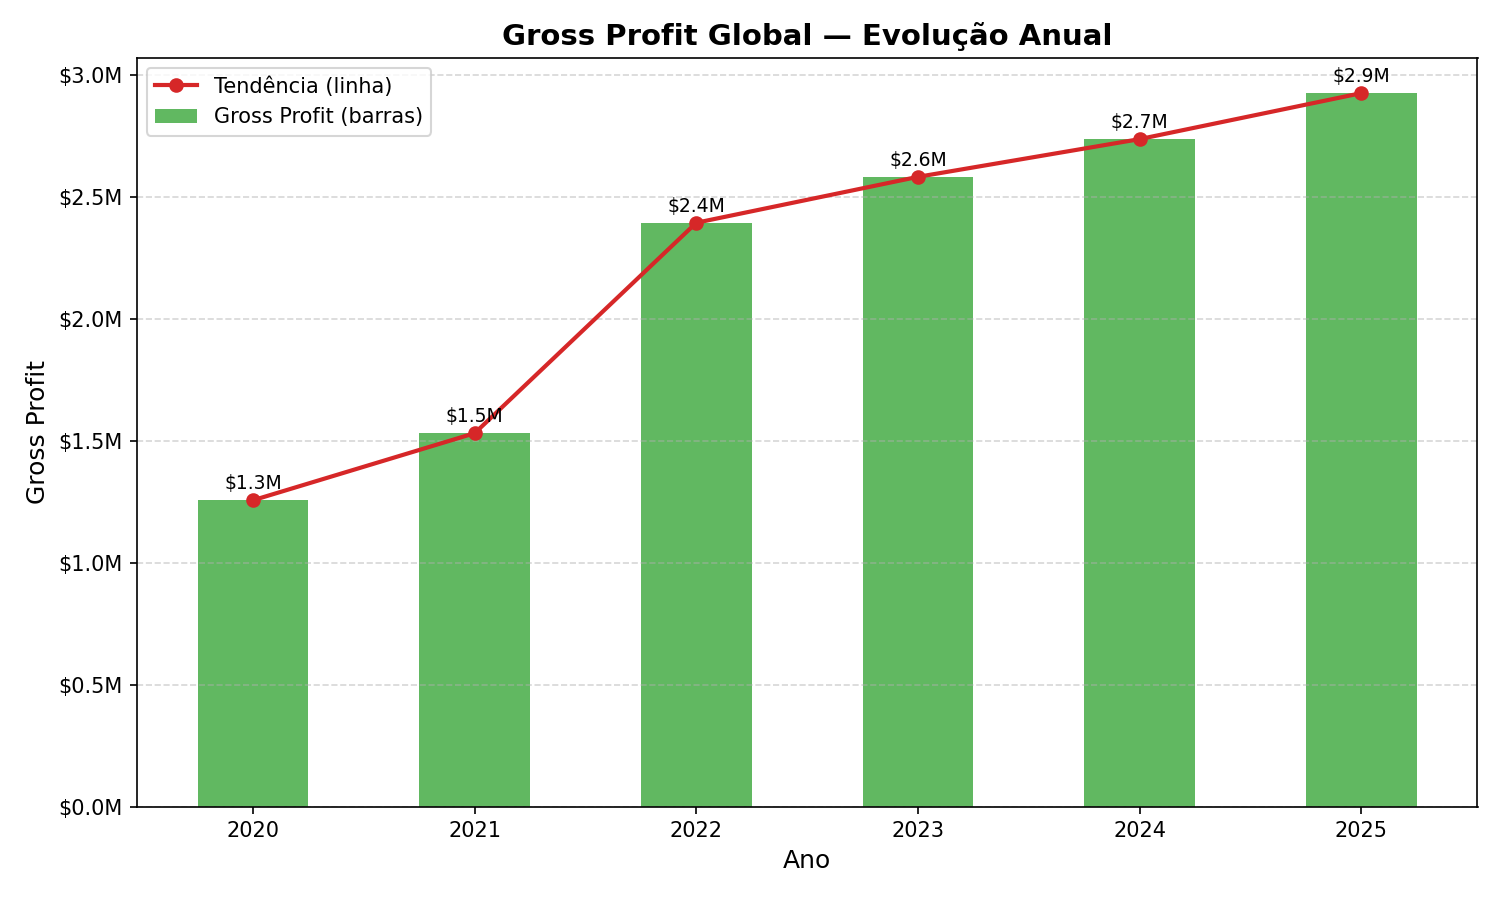
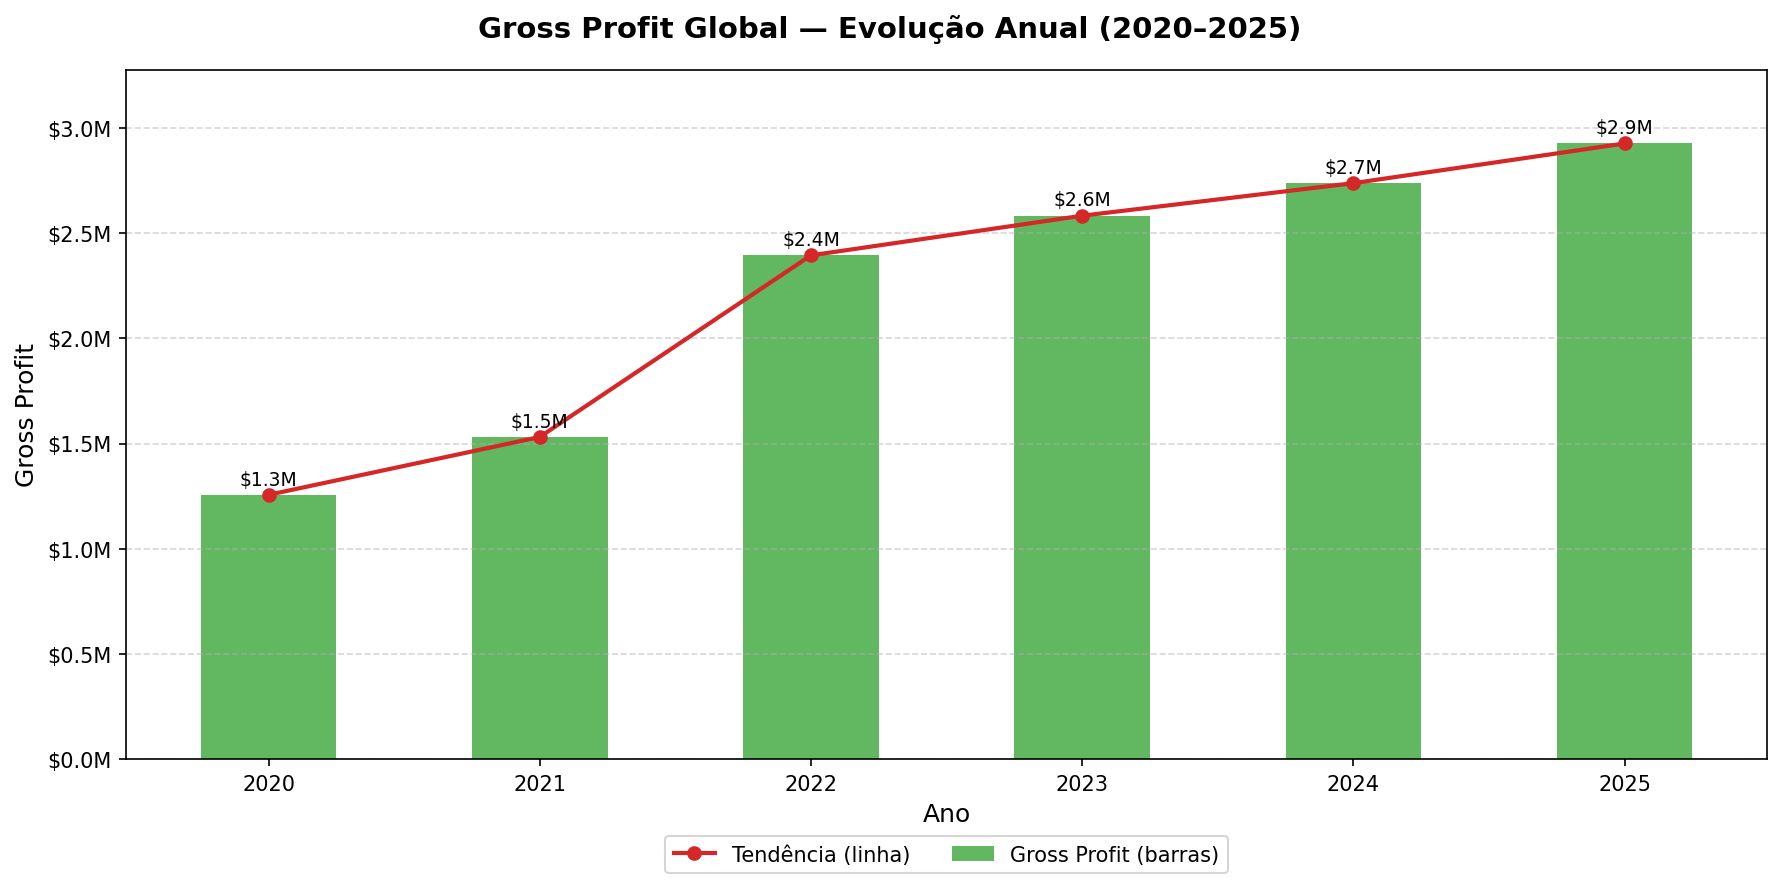
atualizei

diff --git a/Financeiro/paises/total_profit_paises.py b/Financeiro/paises/total_profit_paises.py
@@ -1,5 +1,5 @@
 """
-Gross Profit por País — 3 regiões × 3 ficheiros cada:
+Total Profit por País — 3 regiões × 3 ficheiros cada:
   _abs.png   → Stacked Area volume absoluto
   _pct.png   → Stacked Area 100% (quota no continente)
   _stats.png → Tabela de estatísticas acumuladas
@@ -18,15 +18,15 @@ OUTPUT_DIR = BASE_DIR
 
 # ── Load & prepare ─────────────────────────────────────────────────────────────
 if not os.path.exists(DATA_PATH):
-    # Fallback para o caminho relativo antigo caso o absoluto falhe num ambiente diferente
+    # Fallback para o caminho relativo antigo caso o absoluto falhe
     DATA_PATH = os.path.join(BASE_DIR, "..", "..", "data", "sales_data_clean.csv")
 
 df = pd.read_csv(DATA_PATH)
-# Gross Profit = Sales_Price - Production_Cost
-df["Gross_Profit"] = df["Sales_Price"] - df["Production_Cost"]
+# Total Profit = Sales_Price - Production_Cost - Shipping_Cost
+df["Total_Profit"] = df["Sales_Price"] - df["Production_Cost"] - df["Shipping_Cost"]
 
 country_data = (
-    df.groupby(["Year", "Region", "Country"])["Gross_Profit"]
+    df.groupby(["Year", "Region", "Country"])["Total_Profit"]
     .sum()
     .reset_index()
     .sort_values(["Region", "Country", "Year"])
@@ -68,7 +68,7 @@ def plot_region(region_key: str, config: dict):
     years = sorted(data["Year"].unique())
 
     pivot = (
-        data.pivot_table(index="Year", columns="Country", values="Gross_Profit", aggfunc="sum")
+        data.pivot_table(index="Year", columns="Country", values="Total_Profit", aggfunc="sum")
         .reindex(columns=countries)
         .fillna(0)
     )
@@ -112,7 +112,7 @@ def plot_region(region_key: str, config: dict):
     # ────────────────────────────────────────────────────────────────────────────
     fig, ax = plt.subplots(figsize=(14, 7))
     fig.suptitle(
-        f"Gross Profit por País — {label} (2020–2025)\nVolume Absoluto — Parcela do Continente",
+        f"Total Profit por País — {label} (2020–2025)\nVolume Absoluto — Parcela do Continente",
         fontsize=13, fontweight="bold",
     )
 
@@ -124,7 +124,7 @@ def plot_region(region_key: str, config: dict):
     ax.set_xticks(years)
     ax.tick_params(axis="x", labelsize=11)
     ax.set_xlabel("Ano", fontsize=11)
-    ax.set_ylabel("Gross Profit", fontsize=11)
+    ax.set_ylabel("Total Profit", fontsize=11)
     ax.legend(loc="lower center", bbox_to_anchor=(0.5, -0.22),
               ncol=min(n_cols, 4), fontsize=10, title="País", framealpha=0.85)
     ax.grid(axis="y", linestyle="--", alpha=0.35)
@@ -158,7 +158,7 @@ def plot_region(region_key: str, config: dict):
             )
 
     plt.tight_layout()
-    p = os.path.join(OUTPUT_DIR, f"gross_profit_paises_{slug}_abs.png")
+    p = os.path.join(OUTPUT_DIR, f"total_profit_paises_{slug}_abs.png")
     plt.savefig(p, dpi=150, bbox_inches="tight")
     print(f"Guardado: {p}")
     plt.close()
@@ -168,7 +168,7 @@ def plot_region(region_key: str, config: dict):
     # ────────────────────────────────────────────────────────────────────────────
     fig, ax = plt.subplots(figsize=(14, 7))
     fig.suptitle(
-        f"Gross Profit por País — {label} (2020–2025)\nQuota Relativa no Continente — 100% Stacked",
+        f"Total Profit por País — {label} (2020–2025)\nQuota Relativa no Continente — 100% Stacked",
         fontsize=13, fontweight="bold",
     )
 
@@ -201,7 +201,7 @@ def plot_region(region_key: str, config: dict):
             )
 
     plt.tight_layout()
-    p = os.path.join(OUTPUT_DIR, f"gross_profit_paises_{slug}_pct.png")
+    p = os.path.join(OUTPUT_DIR, f"total_profit_paises_{slug}_pct.png")
     plt.savefig(p, dpi=150, bbox_inches="tight")
     print(f"Guardado: {p}")
     plt.close()
@@ -210,7 +210,7 @@ def plot_region(region_key: str, config: dict):
     # PNG 3 — Tabela de estatísticas
     # ────────────────────────────────────────────────────────────────────────────
     row_labels = [
-        "Gross Profit Total Acum.",
+        "Total Profit Acumulado",
         "Média Anual",
         "CAGR",
         "Cresc. Médio YoY",
@@ -231,7 +231,7 @@ def plot_region(region_key: str, config: dict):
     fig, ax = plt.subplots(figsize=(max(8, 3.5 * n_cols + 3), fig_h))
     ax.axis("off")
     fig.suptitle(
-        f"Estatísticas Acumuladas — {label} (Gross Profit)",
+        f"Estatísticas Acumuladas — {label} (Total Profit)",
         fontsize=13, fontweight="bold", y=0.97,
     )
 
@@ -270,7 +270,7 @@ def plot_region(region_key: str, config: dict):
             cell.set_height(0.12)
 
     plt.tight_layout()
-    p = os.path.join(OUTPUT_DIR, f"gross_profit_paises_{slug}_stats.png")
+    p = os.path.join(OUTPUT_DIR, f"total_profit_paises_{slug}_stats.png")
     plt.savefig(p, dpi=150, bbox_inches="tight")
     print(f"Guardado: {p}")
     plt.close()

diff --git a/Financeiro/global/total_profit_global.py b/Financeiro/global/total_profit_global.py
@@ -1,8 +1,8 @@
 """
-Gross Profit Global — evolução anual do gross profit total (escala global).
+Total Profit Global — evolução anual do Total Profit total (escala global).
 Gera 2 ficheiros:
-  gross_profit_global.png       → barras + linha de tendência
-  gross_profit_global_stats.png → tabela de estatísticas acumuladas
+  total_profit_global.png       → barras + linha de tendência
+  total_profit_global_stats.png → tabela de estatísticas acumuladas
 """
 
 import pandas as pd
@@ -17,18 +17,18 @@ OUTPUT_DIR = BASE_DIR
 
 # ── Load & prepare ─────────────────────────────────────────────────────────────
 df = pd.read_csv(DATA_PATH)
-# Gross Profit = Sales_Price - Production_Cost
-df["Gross_Profit"] = df["Sales_Price"] - df["Production_Cost"]
+# Total Profit = Sales_Price - Production_Cost - Shipping_Cost
+df["Total_Profit"] = df["Sales_Price"] - df["Production_Cost"] - df["Shipping_Cost"]
 
-global_gp = (
-    df.groupby("Year")["Gross_Profit"]
+global_tp = (
+    df.groupby("Year")["Total_Profit"]
     .sum()
     .reset_index()
     .sort_values("Year")
 )
 
-val_col = global_gp["Gross_Profit"]
-years = global_gp["Year"].tolist()
+val_col = global_tp["Total_Profit"]
+years = global_tp["Year"].tolist()
 n_years = len(years)
 
 # ── Estatísticas ───────────────────────────────────────────────────────────────
@@ -41,7 +41,7 @@ yoy_worst_i = yoy.idxmin()
 
 # Mudança de estrutura: [Indicador, Valor] em vez de usar rowLabels
 stats_data = [
-    ["Gross Profit Total Acum.",  f"${val_col.sum()/1e6:.1f}M"],
+    ["Total Profit Acumulado",    f"${val_col.sum()/1e6:.1f}M"],
     ["Média Anual",               f"${val_col.mean()/1e6:.2f}M"],
     ["CAGR",                      f"{cagr:.1f}%"],
     ["Cresc. Médio YoY",          f"{yoy_mean:.1f}%"],
@@ -55,28 +55,28 @@ stats_data = [
 # PNG 1 — Barras + Linha
 # ────────────────────────────────────────────────────────────────────────────────
 fig, ax = plt.subplots(figsize=(12, 6))
-fig.suptitle("Gross Profit Global — Evolução Anual (2020–2025)",
+fig.suptitle("Total Profit Global — Evolução Anual (2020–2025)",
              fontsize=14, fontweight="bold")
 
 bars = ax.bar(
-    global_gp["Year"],
-    global_gp["Gross_Profit"],
-    color="#2ca02c",
+    global_tp["Year"],
+    global_tp["Total_Profit"],
+    color="#9467bd",
     alpha=0.75,
     width=0.5,
-    label="Gross Profit (barras)",
+    label="Total Profit (barras)",
 )
 
 ax.plot(
-    global_gp["Year"],
-    global_gp["Gross_Profit"],
+    global_tp["Year"],
+    global_tp["Total_Profit"],
     marker="o",
     color="#d62728",
     linewidth=2,
     label="Tendência (linha)",
 )
 
-for bar, val in zip(bars, global_gp["Gross_Profit"]):
+for bar, val in zip(bars, global_tp["Total_Profit"]):
     ax.text(
         bar.get_x() + bar.get_width() / 2,
         bar.get_height() + val_col.max() * 0.01,
@@ -86,14 +86,14 @@ for bar, val in zip(bars, global_gp["Gross_Profit"]):
 
 ax.yaxis.set_major_formatter(mticker.FuncFormatter(lambda x, _: f"${x/1e6:.1f}M"))
 ax.set_xlabel("Ano", fontsize=12)
-ax.set_ylabel("Gross Profit", fontsize=12)
-ax.set_xticks(global_gp["Year"])
+ax.set_ylabel("Total Profit", fontsize=12)
+ax.set_xticks(global_tp["Year"])
 ax.legend(loc="lower center", bbox_to_anchor=(0.5, -0.18), ncol=2, fontsize=10)
 ax.grid(axis="y", linestyle="--", alpha=0.5)
 ax.margins(y=0.12)
 
 plt.tight_layout()
-p = os.path.join(OUTPUT_DIR, "gross_profit_global.png")
+p = os.path.join(OUTPUT_DIR, "total_profit_global.png")
 plt.savefig(p, dpi=150, bbox_inches="tight")
 print(f"Guardado: {p}")
 plt.close()
@@ -103,7 +103,7 @@ plt.close()
 # ────────────────────────────────────────────────────────────────────────────────
 fig, ax = plt.subplots(figsize=(8, 5))
 ax.axis("off")
-fig.suptitle("Estatísticas Acumuladas — Gross Profit Global",
+fig.suptitle("Estatísticas Acumuladas — Total Profit Global",
              fontsize=13, fontweight="bold", y=0.95)
 
 tbl = ax.table(
@@ -116,11 +116,10 @@ tbl = ax.table(
 tbl.auto_set_font_size(False)
 tbl.set_fontsize(11)
 
-# Estilização das células
 for (i, j), cell in tbl.get_celld().items():
     cell.set_height(0.12)
     if i == 0: # Cabeçalho
-        cell.set_facecolor("#2ca02c")
+        cell.set_facecolor("#9467bd")
         cell.set_text_props(color="white", fontweight="bold")
     elif j == 0: # Coluna de indicadores
         cell.set_facecolor("#f0f0f0")
@@ -129,7 +128,7 @@ for (i, j), cell in tbl.get_celld().items():
         cell.set_facecolor("white")
 
 plt.tight_layout()
-p = os.path.join(OUTPUT_DIR, "gross_profit_global_stats.png")
+p = os.path.join(OUTPUT_DIR, "total_profit_global_stats.png")
 plt.savefig(p, dpi=150, bbox_inches="tight")
 print(f"Guardado: {p}")
 plt.close()

diff --git a/Financeiro/continentes/total_profit_continentes.py b/Financeiro/continentes/total_profit_continentes.py
@@ -1,5 +1,5 @@
 """
-Gross Profit por Continente/Região — evolução anual.
+Total Profit por Continente/Região — evolução anual.
 Gera 3 ficheiros separados:
   _abs.png   → Stacked Area volume absoluto
   _pct.png   → Stacked Area 100% (quota global)
@@ -18,11 +18,11 @@ OUTPUT_DIR = BASE_DIR
 
 # ── Load & prepare ─────────────────────────────────────────────────────────────
 df = pd.read_csv(DATA_PATH)
-# Gross Profit = Sales_Price - Production_Cost
-df["Gross_Profit"] = df["Sales_Price"] - df["Production_Cost"]
+# Total Profit = Sales_Price - Production_Cost - Shipping_Cost
+df["Total_Profit"] = df["Sales_Price"] - df["Production_Cost"] - df["Shipping_Cost"]
 
 region_data = (
-    df.groupby(["Year", "Region"])["Gross_Profit"]
+    df.groupby(["Year", "Region"])["Total_Profit"]
     .sum()
     .reset_index()
     .sort_values(["Year", "Region"])
@@ -30,7 +30,7 @@ region_data = (
 
 pivot = (
     region_data
-    .pivot(index="Year", columns="Region", values="Gross_Profit")
+    .pivot(index="Year", columns="Region", values="Total_Profit")
     .fillna(0)
 )
 
@@ -41,9 +41,9 @@ regions   = pivot.columns.tolist()
 n_years   = len(years)
 
 COLORS = {
-    "Asia":          "#4e9af1",
-    "Europe":        "#f4a02a",
-    "North America": "#3cba54",
+    "Asia":          "#1f77b4",
+    "Europe":        "#ff7f0e",
+    "North America": "#2ca02c",
 }
 LABELS = {
     "Asia":          "Ásia",
@@ -96,7 +96,7 @@ FONT_PCT_NORMAL = 9.0
 # ────────────────────────────────────────────────────────────────────────────────
 fig, ax = plt.subplots(figsize=(14, 7))
 fig.suptitle(
-    "Gross Profit por Região — Evolução Anual (2020–2025)\nVolume Absoluto",
+    "Total Profit por Região — Evolução Anual (2020–2025)\nVolume Absoluto",
     fontsize=13, fontweight="bold",
 )
 
@@ -106,7 +106,7 @@ ax.set_xlim(years[0] - 0.3, years[-1] + 0.3)
 ax.set_xticks(years)
 ax.tick_params(axis="x", labelsize=11)
 ax.set_xlabel("Ano", fontsize=11)
-ax.set_ylabel("Gross Profit", fontsize=11)
+ax.set_ylabel("Total Profit", fontsize=11)
 ax.legend(loc="lower center", bbox_to_anchor=(0.5, -0.22),
           ncol=3, fontsize=10, framealpha=0.85)
 ax.grid(axis="y", linestyle="--", alpha=0.35)
@@ -136,7 +136,7 @@ for region in regions:
                 fontsize=fs, color="black", fontweight="bold")
 
 plt.tight_layout()
-p = os.path.join(OUTPUT_DIR, "gross_profit_continentes_abs.png")
+p = os.path.join(OUTPUT_DIR, "total_profit_continentes_abs.png")
 plt.savefig(p, dpi=150, bbox_inches="tight")
 print(f"Guardado: {p}")
 plt.close()
@@ -146,7 +146,7 @@ plt.close()
 # ────────────────────────────────────────────────────────────────────────────────
 fig, ax = plt.subplots(figsize=(14, 7))
 fig.suptitle(
-    "Gross Profit por Região — Evolução Anual (2020–2025)\nQuota Relativa Global — 100% Stacked",
+    "Total Profit por Região — Evolução Anual (2020–2025)\nQuota Relativa Global — 100% Stacked",
     fontsize=13, fontweight="bold",
 )
 
@@ -157,7 +157,7 @@ ax.set_xticks(years)
 ax.tick_params(axis="x", labelsize=11)
 ax.set_ylim(0, 110)
 ax.set_xlabel("Ano", fontsize=11)
-ax.set_ylabel("Quota de Gross Profit (%)", fontsize=11)
+ax.set_ylabel("Quota de Total Profit (%)", fontsize=11)
 ax.legend(loc="lower center", bbox_to_anchor=(0.5, -0.22),
           ncol=3, fontsize=10, framealpha=0.85)
 ax.grid(axis="y", linestyle="--", alpha=0.35)
@@ -174,7 +174,7 @@ for region in regions:
                 fontsize=fs, color="black", fontweight="bold")
 
 plt.tight_layout()
-p = os.path.join(OUTPUT_DIR, "gross_profit_continentes_pct.png")
+p = os.path.join(OUTPUT_DIR, "total_profit_continentes_pct.png")
 plt.savefig(p, dpi=150, bbox_inches="tight")
 print(f"Guardado: {p}")
 plt.close()
@@ -183,7 +183,7 @@ plt.close()
 # PNG 3 — Tabela de estatísticas
 # ────────────────────────────────────────────────────────────────────────────────
 row_labels = [
-    "Gross Profit Total Acum.",
+    "Total Profit Acumulado",
     "Média Anual",
     "CAGR",
     "Cresc. Médio YoY",
@@ -203,7 +203,7 @@ n_rows = len(row_labels)
 fig_h  = 1.2 + n_rows * 0.55 + 0.6
 fig, ax = plt.subplots(figsize=(12, fig_h))
 ax.axis("off")
-fig.suptitle("Estatísticas Acumuladas — Gross Profit por Região", fontsize=13,
+fig.suptitle("Estatísticas Acumuladas — Total Profit por Região", fontsize=13,
              fontweight="bold", y=0.97)
 
 tbl = ax.table(
@@ -238,7 +238,7 @@ for i in range(n_rows):
         cell.set_height(0.12)
 
 plt.tight_layout()
-p = os.path.join(OUTPUT_DIR, "gross_profit_continentes_stats.png")
+p = os.path.join(OUTPUT_DIR, "total_profit_continentes_stats.png")
 plt.savefig(p, dpi=150, bbox_inches="tight")
 print(f"Guardado: {p}")
 plt.close()

diff --git a/Financeiro/total_profit.py b/Financeiro/total_profit.py
@@ -1,0 +1,31 @@
+import pandas as pd
+import os 
+
+# Caminho para o dataset
+file_path = r'C:\Users\jfran\Documents\PwC\data\sales_data_clean.csv'
+
+def gross_profit():
+    if not os.path.exists(file_path):
+        print(f"Erro: O ficheiro não foi encontrado em {file_path}")
+        return
+    print("A carregar os dados...")
+    df = pd.read_csv(file_path)
+    # Colunas utilizadas para o agrupamento e cálculo
+    # 'Main_Category' foi escolhida para representar a Categoria
+    columns = ['Year', 'Region', 'Country', 'Main_Category', 'Sales_Price', 'Production_Cost']
+    
+    # Calcular Gross Profit individual por linha
+    df['Gross_Profit'] = df['Sales_Price'] - df['Production_Cost']
+    # Agrupar pelos critérios solicitados e somar o Gross Profit
+    kpi_result = df.groupby(['Year', 'Region', 'Country', 'Main_Category'])['Gross_Profit'].sum().reset_index()
+    # Ordenar para facilitar a leitura
+    kpi_result = kpi_result.sort_values(by=['Year', 'Region', 'Country', 'Main_Category'])
+    # Guardar os resultados num novo CSV
+    output_path = 'gross_profit_kpi_results.csv'
+    kpi_result.to_csv(output_path, index=False)
+    
+    print("\nResumo dos resultados (Top 10):")
+    print(kpi_result.head(10).to_string(index=False))
+    print(f"\nResultados completos guardados em: {os.path.abspath(output_path)}")
+if __name__ == "__main__":
+    gross_profit()
